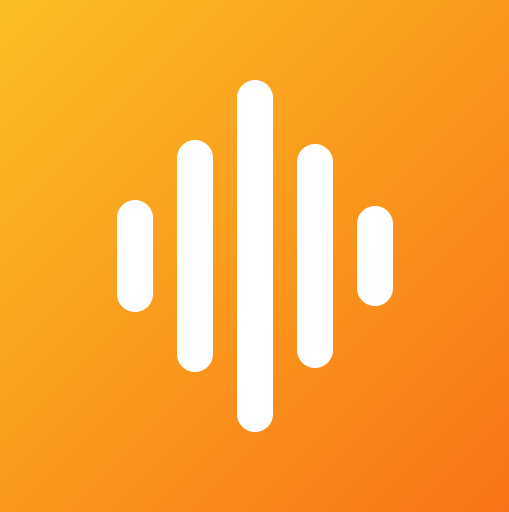
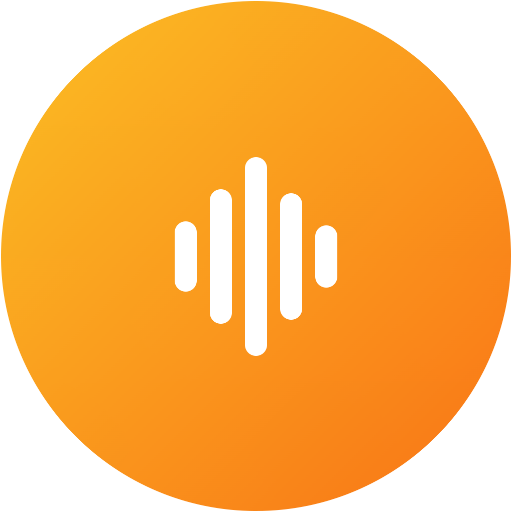
fix lp

diff --git a/resources/views/welcome.blade.php b/resources/views/welcome.blade.php
@@ -50,8 +50,8 @@
         </script>
 
         <!-- Favicon -->
-        <link rel="icon" type="image/svg+xml" href="{{ asset('images/postelio-logo-gradient.svg') }}">
-        <link rel="apple-touch-icon" href="{{ asset('images/postelio-logo-gradient.svg') }}">
+        <link rel="icon" type="image/x-icon" href="{{ asset('favicon.ico') }}">
+        <link rel="apple-touch-icon" href="{{ asset('favicon.ico') }}">
 
         <!-- Fonts (Outfit + Inter chargés via app.css depuis Google Fonts) -->
 
@@ -198,8 +198,8 @@
                       <rect x="2" width="1" height="2" fill="#E62117"/>
                     </svg>
                     <div class="w-px h-3.5 bg-slate-200 mx-1 shrink-0"></div>
-                    <span class="text-[10.5px] sm:text-[11px] lg:text-xs font-bold text-slate-600 tracking-tight uppercase whitespace-nowrap">
-                      Application <span class="text-midnight">100% Française</span> <span class="mx-1 text-slate-300">·</span> Conçue en <span class="text-midnight">Bretagne</span>
+                    <span class="text-xs sm:text-[13px] font-medium text-slate-600">
+                      Application <span class="font-bold text-midnight">100% Française</span> <span class="mx-1.5 text-copper/50">•</span> Conçue en <span class="font-bold text-midnight">Bretagne</span>
                     </span>
                   </div>
                 </div>

diff --git a/resources/views/legal/layout.blade.php b/resources/views/legal/layout.blade.php
@@ -4,7 +4,7 @@
     <meta charset="utf-8">
     <meta name="viewport" content="width=device-width, initial-scale=1">
     <title>@yield('title', 'Légal') — Postelio</title>
-    <link rel="icon" type="image/svg+xml" href="{{ asset('images/postelio-logo-gradient.svg') }}">
+    <link rel="icon" type="image/x-icon" href="{{ asset('favicon.ico') }}">
     <link rel="preconnect" href="https://fonts.bunny.net">
     <link href="https://fonts.bunny.net/css?family=figtree:400,500,600,700,800&display=swap" rel="stylesheet" />
     @vite(['resources/css/app.css', 'resources/js/app.js'])

diff --git a/resources/views/layouts/guest.blade.php b/resources/views/layouts/guest.blade.php
@@ -8,8 +8,8 @@
         <title>{{ config('app.name', 'Postelio') }}</title>
 
         <!-- Favicon -->
-        <link rel="icon" type="image/svg+xml" href="{{ asset('images/postelio-logo-gradient.svg') }}">
-        <link rel="apple-touch-icon" href="{{ asset('images/postelio-logo-gradient.svg') }}">
+        <link rel="icon" type="image/x-icon" href="{{ asset('favicon.ico') }}">
+        <link rel="apple-touch-icon" href="{{ asset('favicon.ico') }}">
 
         <!-- Fonts -->
         <link rel="preconnect" href="https://fonts.bunny.net">

diff --git a/resources/views/newsletter/unsubscribed.blade.php b/resources/views/newsletter/unsubscribed.blade.php
@@ -4,7 +4,7 @@
     <meta charset="utf-8">
     <meta name="viewport" content="width=device-width, initial-scale=1.0">
     <title>Désabonnement — Postelio</title>
-    <link rel="icon" type="image/svg+xml" href="{{ asset('images/postelio-logo-gradient.svg') }}">
+    <link rel="icon" type="image/x-icon" href="{{ asset('favicon.ico') }}">
     <link href="https://fonts.googleapis.com/css2?family=Inter:wght@400;500;600;700&display=swap" rel="stylesheet">
     <style>
         * { box-sizing: border-box; margin: 0; padding: 0; }

diff --git a/resources/views/blog/show.blade.php b/resources/views/blog/show.blade.php
@@ -47,7 +47,7 @@
 
     <link rel="canonical" href="{{ route('blog.show', $post->slug) }}">
 
-    <link rel="icon" type="image/svg+xml" href="{{ asset('images/postelio-logo-gradient.svg') }}">
+    <link rel="icon" type="image/x-icon" href="{{ asset('favicon.ico') }}">
     <link rel="preconnect" href="https://fonts.bunny.net">
     <link href="https://fonts.bunny.net/css?family=figtree:400,500,600,700,800&display=swap" rel="stylesheet" />
 

diff --git a/resources/views/layouts/onboarding.blade.php b/resources/views/layouts/onboarding.blade.php
@@ -13,7 +13,7 @@
         <meta name="apple-mobile-web-app-title" content="Postelio">
 
         <!-- Favicon -->
-        <link rel="icon" type="image/svg+xml" href="{{ asset('images/postelio-logo-gradient.svg') }}">
+        <link rel="icon" type="image/x-icon" href="{{ asset('favicon.ico') }}">
         <link rel="apple-touch-icon" href="/images/pwa/icon-192.png">
 
         <link rel="preconnect" href="https://fonts.bunny.net">

diff --git a/resources/views/blog/index.blade.php b/resources/views/blog/index.blade.php
@@ -15,7 +15,7 @@
 
     <link rel="canonical" href="{{ route('blog.index') }}">
 
-    <link rel="icon" type="image/svg+xml" href="{{ asset('images/postelio-logo-gradient.svg') }}">
+    <link rel="icon" type="image/x-icon" href="{{ asset('favicon.ico') }}">
     <link rel="preconnect" href="https://fonts.bunny.net">
     <link href="https://fonts.bunny.net/css?family=figtree:400,500,600,700,800&display=swap" rel="stylesheet" />
 

diff --git a/resources/views/layouts/app.blade.php b/resources/views/layouts/app.blade.php
@@ -8,7 +8,7 @@
         <title>{{ config('app.name', 'Postelio') }}</title>
 
         <!-- Favicon -->
-        <link rel="icon" type="image/svg+xml" href="{{ asset('images/postelio-logo-gradient.svg') }}">
+        <link rel="icon" type="image/x-icon" href="{{ asset('favicon.ico') }}">
 
         <!-- Fonts -->
         <link rel="preconnect" href="https://fonts.bunny.net">

diff --git a/resources/views/errors/layout.blade.php b/resources/views/errors/layout.blade.php
@@ -6,7 +6,7 @@
     <title>@yield('title') - Postelio</title>
 
     <!-- App Favicon -->
-    <link rel="icon" type="image/svg+xml" href="{{ asset('images/postelio-logo-gradient.svg') }}">
+    <link rel="icon" type="image/x-icon" href="{{ asset('favicon.ico') }}">
 
     <!-- Fonts -->
     <link rel="preconnect" href="https://fonts.bunny.net">
